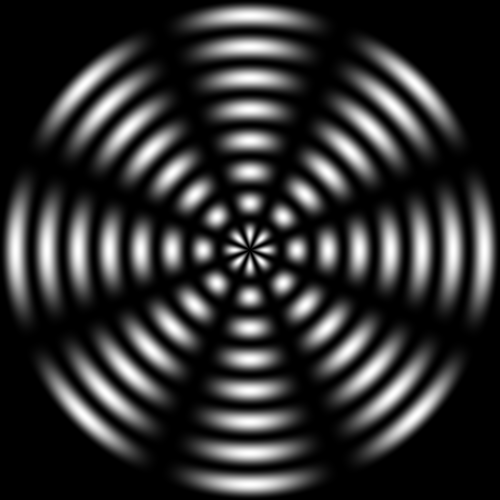
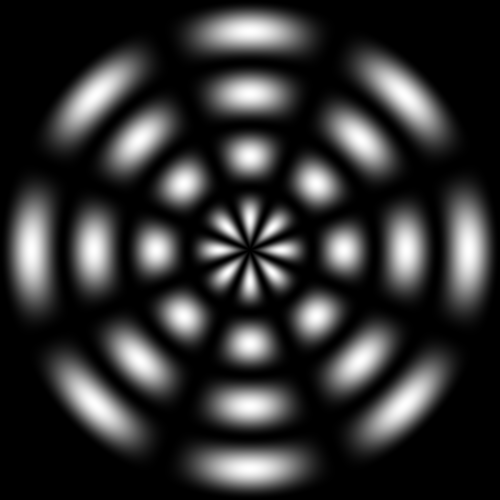
add some inline comments

diff --git a/ct_fbi/gui.py b/ct_fbi/gui.py
@@ -257,11 +257,14 @@ class GUI(tk.Tk):
         if (not show) and chart:
             max_err = [None for i in qs]
             avg_err =  [None for i in qs]
+            
             data_dict = functions.import_data(img_name)
+            print(data_dict.keys())
             for i in range(len(qs)):
                 q = qs[i]
                 p = ps[i]
                 key = "{}/{}/{}".format(p,q,params["step"])
+                print(key)
                 if key in data_dict.keys():
                     avg_err[i] = data_dict[key][0]
                     max_err[i] = data_dict[key][1]
@@ -328,7 +331,8 @@ class GUI(tk.Tk):
         plt.plot(x_arr, max_err, 'ro')
         plt.xlabel(err)
         plt.ylabel('max. error')
-        plt.suptitle("Error Analysis for the FBI-Alogrithm " + err_add)
+        im_name = self.pic_p_arr[self.index].split("/")[-1].split("\\")[-1]
+        plt.suptitle("Fitlered Backprojection Error Analysis for {} ".format(im_name) + err_add)
         if(err == "p,q" or err == "q,p"):
             plt.xticks(x_arr, labels, rotation='vertical')
             # Pad margins so that markers don't get clipped by the axes
@@ -373,7 +377,8 @@ class GUI(tk.Tk):
         ax.set_xlabel("avg: {:0.3f}, max: {:0.1f}".format(avg_error, max_err))
         #ax.set_ylabel("y")
 
-        fig.suptitle("Computerized Tomography: FBI with p=%s, q=%s" % (p,q))
+        im_name = self.pic_p_arr[self.index].split("/")[-1].split("\\")[-1]
+        fig.suptitle("Computerized Tomography: FBI with p={}, q={} for {}".format(p,q, im_name))
         plt.tight_layout()
         fig.subplots_adjust(right=0.8)
         

diff --git a/ct_fbi/functions.py b/ct_fbi/functions.py
@@ -51,7 +51,7 @@ def add_data(image_name, p, q, avg_err, max_err, step):
     BASEPATH = os.path.abspath(os.path.dirname(__file__)).replace('\\','/') + "/result_save"
     filename = BASEPATH + "/" + image_name + ".csv"
     with open(filename, 'a') as file:
-        file.write("{};{};{};{};{}\n".format(p,q,avg_err, max_err, step))
+        file.write("{};{};{};{};{}\n".format(p,q,str(avg_err), str(max_err), str(step)))
         
 def import_data(image_name):
     BASEPATH = os.path.abspath(os.path.dirname(__file__)).replace('\\','/') + "/result_save"
@@ -64,11 +64,16 @@ def import_data(image_name):
         for i in range(len(arr_in)):
             key = arr_in[i][0] + "/" + arr_in[i][1] + "/" + arr_in[i][4]
             if key not in result.keys():
-                result[key] = (float(arr_in[i][2]), float(arr_in[i][3])) 
+                try:
+                    result[key] = (float(arr_in[i][2]), float(arr_in[i][3])) 
+                except Exception as e:
+                    print(e)
             else:
                 print("WARNING: duplicate "+image_name+"-entry '"+ arr_in[i][0] + "/" + arr_in[i][1]+ "'")
         return result
-    except Exception:
+    except Exception as e:
+        print("Error when loading past results...")
+        print(e)
         return dict()
 
 def draw_circle(f_in, r2, val = 240):

diff --git a/ct_fbi/picture_generate.py b/ct_fbi/picture_generate.py
@@ -52,5 +52,5 @@ def generate_wave(n = 500, k = 0, j = 0, out = "wave.png", norm = 2, vanish = 0.
     im.save(out)
     
 if __name__ == "__main__":
-    generate_wave(k = 8,j = 8, vanish = 0, norm = 2, white_center = False, out = "wave3.png", smooth = True, force_r = True)
+    generate_wave(k = 4,j = 8, vanish = 0, norm = 2, white_center = False, out = "wave.png", smooth = True, force_r = True)
     
